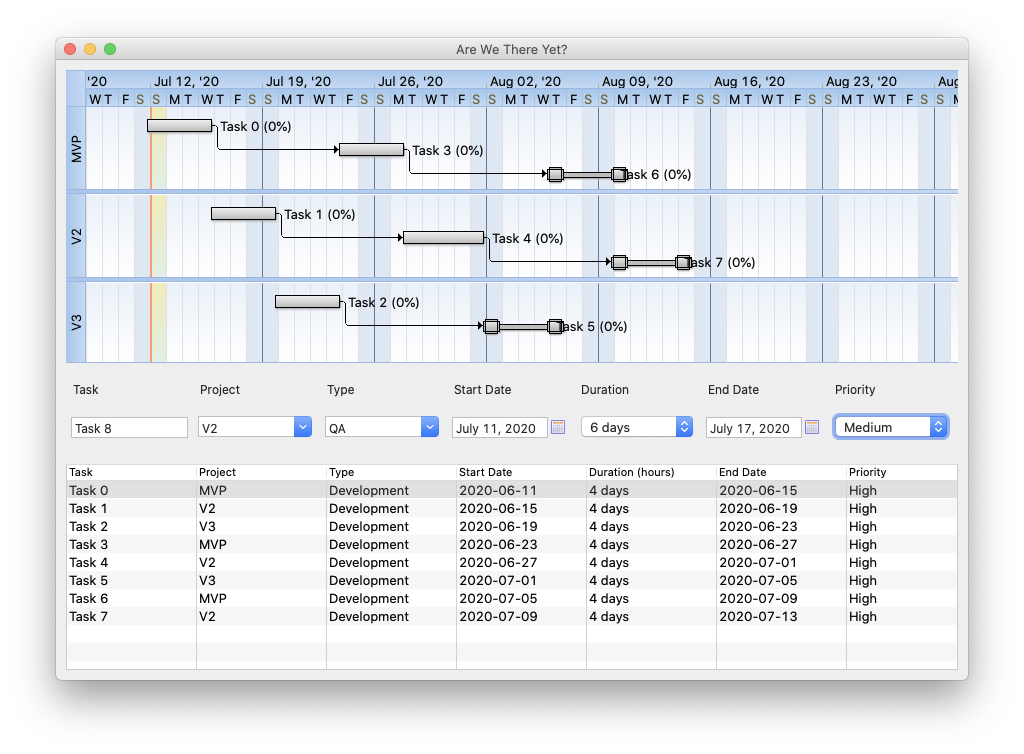
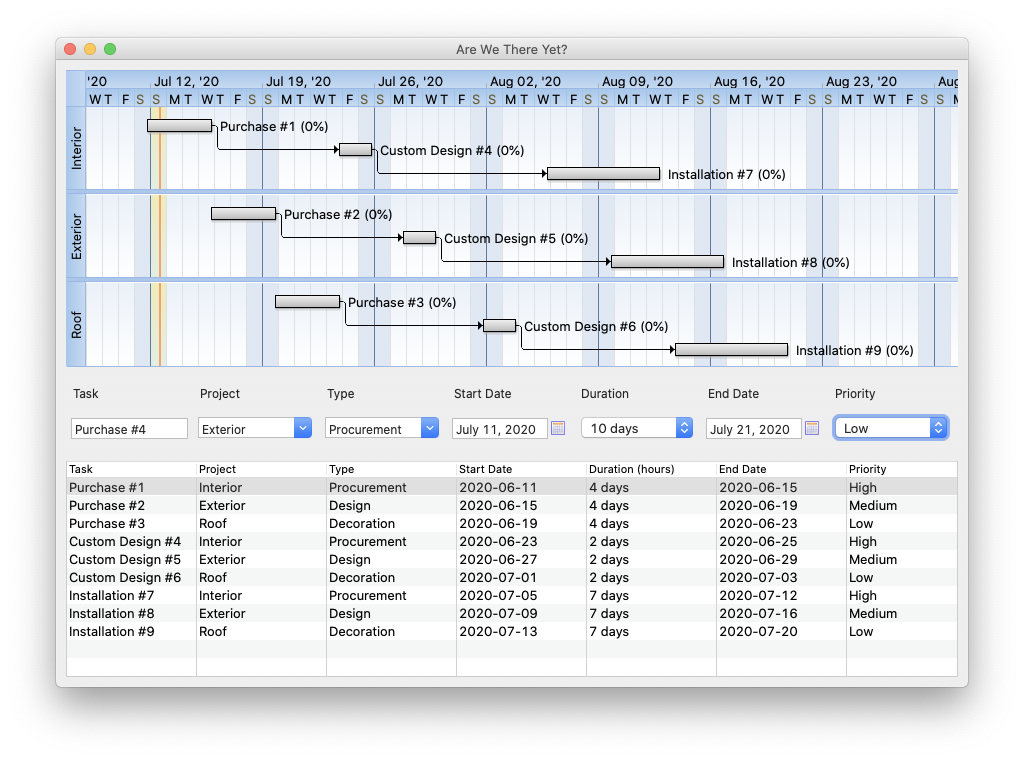
Updated samples and screenshot

diff --git a/app/views/are_we_there_yet/app_view.rb b/app/views/are_we_there_yet/app_view.rb
@@ -10,6 +10,8 @@ class AreWeThereYet
   class AppView        
     include Glimmer::UI::CustomShell
     
+    GANTT_CHART_MINIMUM_HEIGHT = 297
+    
     ## Add options like the following to configure CustomShell by outside consumers
     #
     # options :title, :background_color
@@ -41,7 +43,7 @@ class AreWeThereYet
         @gantt_chart_container.content {
           @gantt_chart = gantt_chart(GanttFlags::H_SCROLL_FIXED_RANGE, @gantt_chart_settings) {
             layout_data(:fill, :fill, true, true) {
-              minimum_height 200
+              minimum_height GANTT_CHART_MINIMUM_HEIGHT
             }
           }          
         }
@@ -53,7 +55,7 @@ class AreWeThereYet
             gantt_event = to_gantt_event(task)
             gantt_section.add_gantt_event(gantt_event)
             if @last_gantt_event[project_name]
-              @last_gantt_event[project_name].setCheckpoint(false)
+#               @last_gantt_event[project_name].setCheckpoint(false)
               @gantt_chart.swt_widget.addConnection(@last_gantt_event[project_name], gantt_event)
             end
             @last_gantt_event[project_name] = gantt_event
@@ -84,7 +86,7 @@ class AreWeThereYet
           @gantt_chart_container = composite { |container|
             @gantt_chart = gantt_chart(GanttFlags::H_SCROLL_FIXED_RANGE, @gantt_chart_settings) {
               layout_data(:fill, :fill, true, true) {
-                minimum_height 200
+                minimum_height GANTT_CHART_MINIMUM_HEIGHT
               }
             }
           }
@@ -119,7 +121,7 @@ class AreWeThereYet
       end_date_time = Calendar.getInstance # TODO move to Task class
       end_date_time.set(task.end_at.year, task.end_at.month, task.end_at.day, task.end_at.hour, task.end_at.min, task.end_at.sec)         
       gantt_event = GanttEvent.new(@gantt_chart.swt_widget, task.name, start_date_time, end_date_time, task.finished? ? 100 : 0) # TODO support percent complete
-      gantt_event.setCheckpoint(true)
+#       gantt_event.setCheckpoint(true)
       gantt_event
     end
     

diff --git a/db/migrate/create_tasks.rb b/db/migrate/create_tasks.rb
@@ -15,15 +15,15 @@ class CreateTasks < ActiveRecord::Migration[5.2]
       t.boolean    :finished, default: false
     end
     
-    8.times do |n|
+    9.times do |n|
       AreWeThereYet::Task.create!(
-        project_name: ['MVP', 'V2', 'V3'][n%3],
+        project_name: ['Interior', 'Exterior', 'Roof'][n%3],
         position:     n,
-        name:         "Task #{n}",
-        task_type:    'Development',
+        name:         ["Purchase ##{n+1}", "Custom Design ##{n+1}", "Installation ##{n+1}"][n/3%3],
+        task_type:    ['Procurement', 'Design', 'Decoration'][n%3],
         start_at:     (Time.now - 30*24*60*60) + n*4*24*60*60,
-        duration:     '4 days',
-        priority:     'High',
+        duration:     ['4 days', '2 days', '7 days'][n/3%3],
+        priority:     ['High', 'Medium', 'Low'][n%3],
         finished:     false,
       )
     end    
